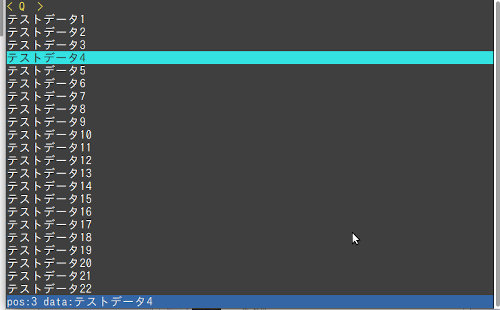
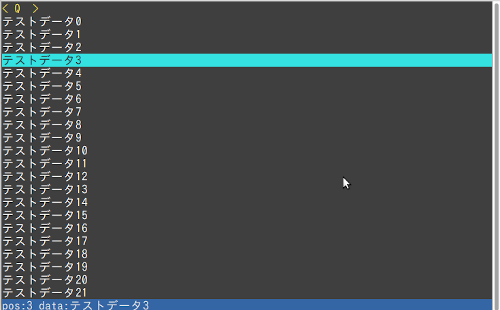
rebuilding site 2021年  6月 12日 土曜日 09:29:06 JST

Changed region(s): [[0.0, 0.0, 1.0, 1.0], [0.66, 0.5806, 0.72, 0.6097], [0.69, 0.7548, 0.72, 0.7839]]

diff --git a/it/pythonでtuiアプリを作ろうその５-listboxで一覧表示/index.html b/it/pythonでtuiアプリを作ろうその５-listboxで一覧表示/index.html
@@ -320,18 +320,15 @@ class MyText(urwid.Text):
         return key  
   
 class ListWalker(urwid.ListWalker):  
-    def __init__(self, items, from_rec, rows):  
+    def __init__(self, items, rows):  
         self.focus = 0  
-        self.create_page(items, from_rec, rows)  
+        self.create_page(items, rows)  
   
-    def create_page(self,items, from_rec, rows):  
+    def create_page(self,items, rows):  
         self.lines = []  
         self.is_last = False  
         for i in range(rows):  
-            if len(items) &lt; from_rec + i:  
-                self.is_last = True  
-                break  
-            text = MyText(items[from_rec+i])  
+            text = MyText(items[i])  
             self.lines.append(urwid.AttrMap(text, None, 'listwalker'))  
   
     def get_focus(self):  
@@ -383,9 +380,9 @@ class Application:
         else:  
             return  
   
-    def doformat(self, from_rec=1):  
+    def doformat(self):  
         cols, rows = self.get_cols_rows()  
-        walker = ListWalker(get_items(), from_rec, rows)  
+        walker = ListWalker(get_items(), rows)  
         self.listbox = urwid.ListBox(walker)  
   
         btn_q = create_mybutton(&quot;Q&quot;, self.exit)  
